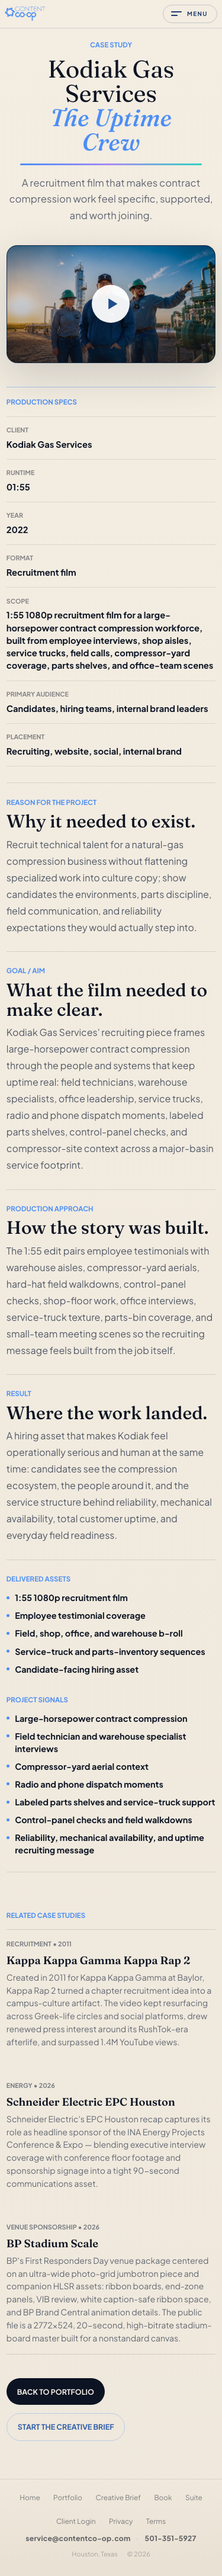
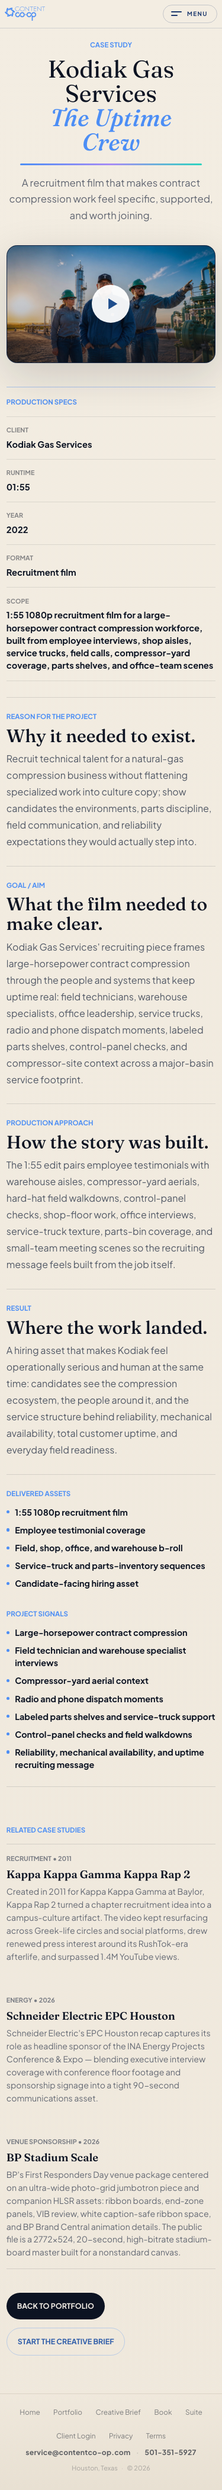
site: never print a guess on case-study pages (audience, placement, non-place locations)
Audience and Placement show only when curated per film; keyword fallbacks removed.
Removed non-place LOCATION_BY_ID entries. Placeholder test now fails on the removed strings.

Changed region(s): [[0.0293, 0.0, 0.968, 0.9971], [0.7333, 0.966, 0.7627, 0.9971]]

diff --git a/apps/home/app/portfolio/[id]/page.tsx b/apps/home/app/portfolio/[id]/page.tsx
@@ -73,11 +73,7 @@ const LOCATION_BY_ID: Record<string, string> = {
   "houston-tech-rodeo": "100 Bringhurst, Houston",
   "north-little-rock": "North Little Rock, AR",
   "tyler-t1d-foundation": "Tyler, TX",
-  "school-boy-humor": "Music video performance set",
-  "ica-aerial-refinery": "U.S. energy footprint",
   "ica-ceo-interview": "Ponte Vedra Beach, FL",
-  gno: "Franchise studio campaign",
-  "conexon-workshop": "Co-ops Connect event environment",
   "kappa-rap": "Baylor University, Waco",
 };
 
@@ -109,37 +105,14 @@ function inferRuntime(study: NonNullable<ReturnType<typeof getPortfolioStudyById
 // out of "Related case studies" until Bailey supplies the film's actual title.
 const RELATED_EXCLUDED_IDS = new Set(["carwash-lead-drummond"]);
 
-function inferAudience(study: NonNullable<ReturnType<typeof getPortfolioStudyById>>) {
-  if (AUDIENCE_BY_ID[study.id]) return AUDIENCE_BY_ID[study.id];
-  const searchable = `${study.sector} ${study.format} ${study.scope}`.toLowerCase();
-  if (searchable.includes("safety")) return "Field teams, HSE leaders, operations reviewers";
-  if (searchable.includes("recruit")) return "Candidates, hiring teams, internal brand leaders";
-  if (searchable.includes("conference") || searchable.includes("executive")) {
-    return "Executives, communications teams, event stakeholders";
-  }
-  if (searchable.includes("broadband") || searchable.includes("co-op")) {
-    return "Co-op broadband teams, marketers, member-services leaders";
-  }
-  if (searchable.includes("paint-and-sip") || searchable.includes("franchise")) {
-    return "Private-party guests, studio owners, franchise marketers";
-  }
-  if (searchable.includes("event") || searchable.includes("rodeo") || searchable.includes("stadium")) {
-    return "Employees, partners, attendees, internal communications";
-  }
-  return "Leadership, sales, operations, and stakeholder audiences";
+// Audience and placement are shown only when curated per film above. There is
+// no keyword-based fallback: an unknown value is omitted, never guessed.
+function inferAudience(study: NonNullable<ReturnType<typeof getPortfolioStudyById>>): string | null {
+  return AUDIENCE_BY_ID[study.id] ?? null;
 }
 
-function inferPlacement(study: NonNullable<ReturnType<typeof getPortfolioStudyById>>) {
-  if (PLACEMENT_BY_ID[study.id]) return PLACEMENT_BY_ID[study.id];
-  const searchable = `${study.format} ${study.scope} ${study.deliverables.join(" ")}`.toLowerCase();
-  if (searchable.includes("training") || searchable.includes("safety")) return "Training rollout, internal review, field communication";
-  if (searchable.includes("jumbotron") || searchable.includes("stadium")) return "Stadium screen, live-event playback";
-  if (searchable.includes("sponsor") || searchable.includes("community communications")) return "Venue, web, social, community communications";
-  if (searchable.includes("workshop") || searchable.includes("session lineup")) return "Event marketing, workshop launch, attendee communications";
-  if (searchable.includes("private-party") || searchable.includes("studio marketing")) return "Website, social ads, studio booking pages";
-  if (searchable.includes("conference") || searchable.includes("event")) return "Event recap, website, social, internal comms";
-  if (searchable.includes("recruit")) return "Recruiting, website, social, internal brand";
-  return "Website, stakeholder meetings, sales enablement, internal communications";
+function inferPlacement(study: NonNullable<ReturnType<typeof getPortfolioStudyById>>): string | null {
+  return PLACEMENT_BY_ID[study.id] ?? null;
 }
 
 export async function generateStaticParams() {

diff --git a/apps/home/lib/__tests__/case-study-placeholders.test.ts b/apps/home/lib/__tests__/case-study-placeholders.test.ts
@@ -15,7 +15,27 @@ import { isComingSoonStudy } from "@/lib/content/coming-soon";
 beforeAll(() => vi.stubGlobal("React", React));
 afterAll(() => vi.unstubAllGlobals());
 
-const PLACEHOLDERS = ["Project cut", "Live event environment", "Houston-led production", "Industrial field site", "Gulf Coast operations"];
+const PLACEHOLDERS = ["Project cut", "Live event environment", "Houston-led production", "Industrial field site", "Gulf Coast operations",
+  "Leadership, sales, operations, and stakeholder audiences",
+  "Website, stakeholder meetings, sales enablement, internal communications",
+  "Field teams, HSE leaders, operations reviewers",
+  "Candidates, hiring teams, internal brand leaders",
+  "Executives, communications teams, event stakeholders",
+  "Co-op broadband teams, marketers, member-services leaders",
+  "Private-party guests, studio owners, franchise marketers",
+  "Employees, partners, attendees, internal communications",
+  "Training rollout, internal review, field communication",
+  "Stadium screen, live-event playback",
+  "Venue, web, social, community communications",
+  "Event marketing, workshop launch, attendee communications",
+  "Website, social ads, studio booking pages",
+  "Event recap, website, social, internal comms",
+  "Recruiting, website, social, internal brand",
+  "Music video performance set",
+  "Franchise studio campaign",
+  "U.S. energy footprint",
+  "Co-ops Connect event environment",
+];
 
 describe("case study pages never print placeholder copy", () => {
   const studies = portfolioPublicStudies.filter((study) => !isComingSoonStudy(study.id));
